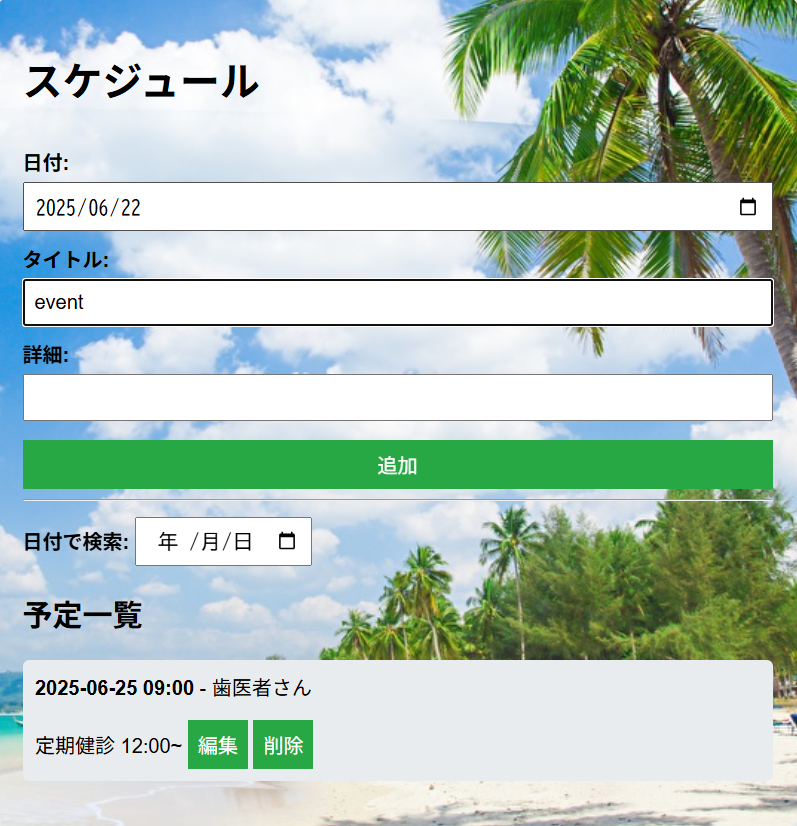
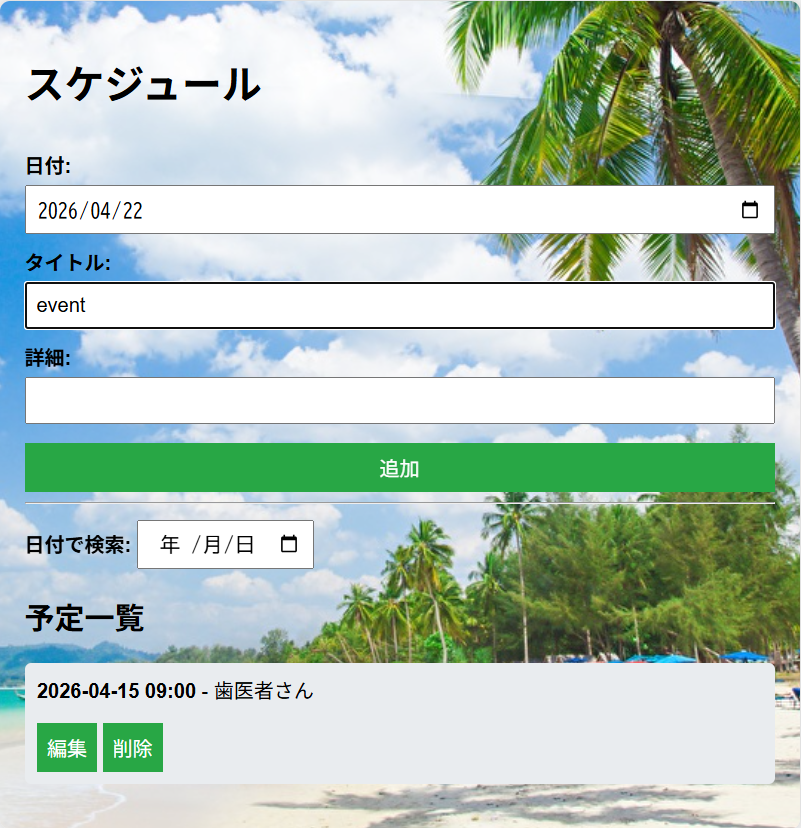
Initial commit

diff --git a/src/main/resources/static/Script.js b/src/main/resources/static/Script.js
@@ -5,41 +5,45 @@ const cancelEditBtn = document.getElementById('cancelEditBtn');
 
 // 予定を取得して表示する関数
 function fetchAndRenderSchedules(url) {
-  fetch(url)
+  fetch(url) // APIにGETリクエストを送信して予定を取得
     .then(res => res.json())
     .then(data => {
-      scheduleList.innerHTML = '';
+      scheduleList.innerHTML = ''; // 予定リストをクリア
       if (data.length === 0) {
-        scheduleList.innerHTML = '<li>予定がありません</li>';
+        scheduleList.innerHTML = '<li>予定がありません</li>'; // 予定がない場合の表示
         return;
       }
 
+      // 予定をリストに追加
       data.forEach((s) => {
-        const date = s.startTime.split('T')[0];
+        const date = s.startTime.split('T')[0]; // YYYY-MM-DD
         const time = s.startTime.split('T')[1].slice(0, 5); // HH:mm
-        const li = document.createElement('li');
+        const li = document.createElement('li'); // <li>2024-06-01 09:00 - 会議<br>詳細情報<button>編集</button><button>削除</button></li>
+        
+        // 予定の内容と編集・削除のボタンを表示
         li.innerHTML = `<strong>${date} ${time}</strong> - ${s.title}<br>${s.description}
         <button onclick="editSchedule(${s.id})">編集</button>
-        <button onclick="deleteSchedule(${s.id})">削除</button>`;
-        scheduleList.appendChild(li);
+        <button onclick="deleteSchedule(${s.id})">削除</button>`; // 編集と削除のボタンを追加
+        scheduleList.appendChild(li); // <ul id="scheduleList"><li>予定がありません</li></ul>
       });
     });
 }
 
 // 削除処理
 function deleteSchedule(id) {
-  if (!confirm('この予定を削除しますか？')) return;
+  if (!confirm('この予定を削除しますか？')) return; // 確認ダイアログを表示
 
+  // APIにDELETEリクエストを送信して予定を削除
   fetch(`/api/schedules/${id}`, {
     method: 'DELETE'
   })
   .then(res => {
-    if (!res.ok) throw new Error('削除失敗');
-    fetchAndRenderSchedules('/api/schedules');
+    if (!res.ok) throw new Error('削除失敗'); // レスポンスがOKでない場合はエラーをスロー
+    fetchAndRenderSchedules('/api/schedules'); // 削除後に予定を再取得して表示を更新
   })
   .catch(err => {
-    console.error('削除エラー:', err);
-    alert('削除に失敗しました。');
+    console.error('削除エラー:', err); // エラーが発生した場合はコンソールにエラーを表示
+    alert('削除に失敗しました。'); // ユーザーに削除失敗のメッセージを表示
   });
 }
 
@@ -48,17 +52,17 @@ let editingId = null;
 
 // 編集処理
 function editSchedule(id) { 
-  fetch(`/api/schedules/${id}`)
+  fetch(`/api/schedules/${id}`) // APIにGETリクエストを送信して予定の詳細を取得
     .then(res => {
-      if (!res.ok) throw new Error('予定取得失敗');
-      return res.json();
+      if (!res.ok) throw new Error('予定取得失敗'); // レスポンスがOKでない場合はエラーをスロー
+      return res.json(); // レスポンスをJSONとして解析
     })
-    .then(data => {
-      const date = data.startTime.split('T')[0];
-      document.getElementById('date').value = date;
-      document.getElementById('title').value = data.title;
-      document.getElementById('description').value = data.description;
-      editingId = id;
+    .then(data => { // 取得した予定のデータをフォームにセット
+      const date = data.startTime.split('T')[0]; // 予定の開始日時から日付部分を抽出（YYYY-MM-DD）
+      document.getElementById('date').value = date; // フォームの日付入力に取得した日付をセット
+      document.getElementById('title').value = data.title; // フォームのタイトル入力に取得したタイトルをセット
+      document.getElementById('description').value = data.description; // フォームの説明入力に取得した説明をセット
+      editingId = id; // 編集対象のIDを保存
 
       // ボタンのラベルを「更新」に変更
       scheduleForm.querySelector('button[type="submit"]').textContent = '更新';
@@ -72,9 +76,9 @@ function editSchedule(id) {
 
 // 編集キャンセル処理
 cancelEditBtn.addEventListener('click', () => {
-  editingId = null;
-  scheduleForm.reset();
-  scheduleForm.querySelector('button[type="submit"]').textContent = '追加';
+  editingId = null; // 編集対象のIDをリセット
+  scheduleForm.reset(); // フォームをリセット
+  scheduleForm.querySelector('button[type="submit"]').textContent = '追加'; // ボタンのラベルを「追加」に戻す
   cancelEditBtn.style.display = 'none'; // ボタン非表示
 });
 
@@ -85,18 +89,19 @@ window.addEventListener('DOMContentLoaded', () => {
 
 // 登録処理
 scheduleForm.addEventListener('submit', function (e) {
-  e.preventDefault();
+  e.preventDefault(); // フォームのデフォルトの送信を防止
 
-  const date = document.getElementById('date').value;
-  const title = document.getElementById('title').value;
-  const description = document.getElementById('description').value;
+  const date = document.getElementById('date').value; // フォームから日付を取得
+  const title = document.getElementById('title').value; // フォームからタイトルを取得
+  const description = document.getElementById('description').value; // フォームから説明を取得
 
+  // APIに送信するデータを作成
   const scheduleData = {
     title,
     description,
     startTime: date + 'T09:00:00',
     endTime: date + 'T10:00:00'
-  };
+  }; // 予定の開始時間と終了時間を固定で設定（例: 09:00 - 10:00）
 
   if (editingId) {
     // 編集モード
@@ -104,14 +109,14 @@ scheduleForm.addEventListener('submit', function (e) {
       method: 'PUT',
       headers: { 'Content-Type': 'application/json' },
       body: JSON.stringify(scheduleData)
-    })
+    }) // APIにPUTリクエストを送信して予定を更新
     .then(res => {
       if (!res.ok) throw new Error('更新失敗');
       alert('予定を更新しました！');
       editingId = null;
       scheduleForm.querySelector('button[type="submit"]').textContent = '追加'; // 元に戻す
       scheduleForm.reset();
-      fetchAndRenderSchedules('/api/schedules');
+      fetchAndRenderSchedules('/api/schedules'); // 更新後に予定を再取得して表示を更新
     })
     .catch(err => {
       console.error('更新失敗:', err);
@@ -142,7 +147,7 @@ scheduleForm.addEventListener('submit', function (e) {
 
 // 検索処理
 searchDate.addEventListener('change', () => {
-  const date = searchDate.value;
+  const date = searchDate.value; // 検索用の日付を取得
   if (date) {
     fetchAndRenderSchedules(`/api/schedules/search?date=${date}`);
   } else {

diff --git a/src/main/java/com/example/demo/ScheduleController.java b/src/main/java/com/example/demo/ScheduleController.java
@@ -10,62 +10,65 @@ import org.springframework.format.annotation.DateTimeFormat;
 import java.util.List;
 import java.util.Optional;
 
+// スケジュール管理のRESTコントローラー
 @RestController
 @RequestMapping("/api/schedules")
 public class ScheduleController {
 
-    private final ScheduleRepository repository;
+    private final ScheduleRepository repository; // スケジュールのリポジトリ
 
+    // コンストラクタでリポジトリを注入
     public ScheduleController(ScheduleRepository repository) {
-        this.repository = repository;
+        this.repository = repository; // スケジュールのリポジトリを初期化
     }
 
     // 全件取得
     @GetMapping
     public List<Schedule> getAll() {
-        return repository.findAll();
+        return repository.findAll(); // 全てのスケジュールを取得して返す
     }
 
     // 日付検索
     @GetMapping("/search")
     public List<Schedule> getByDate(@RequestParam("date") @DateTimeFormat(iso = DateTimeFormat.ISO.DATE) LocalDate date) {
-        LocalDateTime startOfDay = date.atStartOfDay();
-        LocalDateTime endOfDay = date.atTime(LocalTime.MAX);
-        return repository.findByStartTimeBetween(startOfDay, endOfDay);
+        LocalDateTime startOfDay = date.atStartOfDay(); // 指定された日付の開始日時を取得
+        LocalDateTime endOfDay = date.atTime(LocalTime.MAX); // 指定された日付の終了日時を取得
+        return repository.findByStartTimeBetween(startOfDay, endOfDay); // 開始日時が指定された日付の範囲内のスケジュールを取得
     }
 
     // 1件取得
     @GetMapping("/{id}")
     public Schedule getById(@PathVariable Long id) {
         return repository.findById(id)
-                .orElseThrow(() -> new RuntimeException("Schedule not found with id " + id));
+                .orElseThrow(() -> new RuntimeException("Schedule not found with id " + id)); // 存在しないIDの場合は例外をスロー
     }
 
     // 登録
     @PostMapping
     public Schedule create(@RequestBody Schedule schedule) {
-        return repository.save(schedule);
+        return repository.save(schedule); // IDは自動生成されるため、リクエストボディには含めない
     }
 
     // 更新
     @PutMapping("/{id}")
     public Schedule update(@PathVariable Long id, @RequestBody Schedule schedule) {
-        Optional<Schedule> existing = repository.findById(id);
+        Optional<Schedule> existing = repository.findById(id); // 更新対象のスケジュールが存在するか確認
+        // 存在する場合は更新、存在しない場合は例外をスロー
         if (existing.isPresent()) {
             Schedule s = existing.get();
-            s.setTitle(schedule.getTitle());
-            s.setDescription(schedule.getDescription());
-            s.setStartTime(schedule.getStartTime());
-            s.setEndTime(schedule.getEndTime());
-            return repository.save(s);
+            s.setTitle(schedule.getTitle()); // タイトルを更新
+            s.setDescription(schedule.getDescription()); // 説明を更新
+            s.setStartTime(schedule.getStartTime()); // 開始日時を更新
+            s.setEndTime(schedule.getEndTime()); // 終了日時を更新
+            return repository.save(s); // 更新後のスケジュールを保存して返す
         } else {
-            throw new RuntimeException("Schedule not found with id " + id);
+            throw new RuntimeException("Schedule not found with id " + id); // 存在しないIDの場合は例外をスロー
         }
     }
 
     // 削除
     @DeleteMapping("/{id}")
     public void delete(@PathVariable Long id) {
-        repository.deleteById(id);
+        repository.deleteById(id); // IDに対応するスケジュールを削除
     }
 }

diff --git a/src/main/java/com/example/demo/ScheduleService.java b/src/main/java/com/example/demo/ScheduleService.java
@@ -8,19 +8,21 @@ import java.time.LocalDateTime;
 import java.time.LocalTime;
 import java.util.List;
 
+// スケジュール管理のビジネスロジックを担当するサービスクラス
 @Service
 public class ScheduleService {
 
     @Autowired
-    private ScheduleRepository scheduleRepository;
+    private ScheduleRepository scheduleRepository; // スケジュールのリポジトリを自動注入
 
     public List<Schedule> getSchedulesByDate(LocalDate date) {
-        LocalDateTime start = date.atStartOfDay();
-        LocalDateTime end = date.atTime(LocalTime.MAX);
-        return scheduleRepository.findByStartTimeBetween(start, end);
+        LocalDateTime start = date.atStartOfDay(); // 指定された日付の開始日時を取得
+        LocalDateTime end = date.atTime(LocalTime.MAX); // 指定された日付の終了日時を取得
+        return scheduleRepository.findByStartTimeBetween(start, end); // 開始日時が指定された日付の範囲内のスケジュールを取得
     }
 
+    // その他のビジネスロジックをここに追加できます（例：スケジュールの登録、更新、削除など）
     public Schedule save(Schedule schedule) {
-        return scheduleRepository.save(schedule);
+        return scheduleRepository.save(schedule); // スケジュールを保存して返す
     }
 }

diff --git a/src/main/java/com/example/demo/Schedule.java b/src/main/java/com/example/demo/Schedule.java
@@ -3,17 +3,18 @@ package com.example.demo;
 import jakarta.persistence.*;
 import java.time.LocalDateTime;
 
+// 予定を表すエンティティクラス
 @Entity
 public class Schedule {
-
+    // IDは自動生成されるように設定
     @Id
     @GeneratedValue(strategy = GenerationType.IDENTITY)
     private Long id;
 
-    private String title;
-    private String description;
-    private LocalDateTime startTime;
-    private LocalDateTime endTime;
+    private String title; // 予定のタイトル
+    private String description; // 予定の説明
+    private LocalDateTime startTime; // 予定の開始日時
+    private LocalDateTime endTime; // 予定の終了日時
 
     // ゲッターとセッター
     public Long getId() { return id; }

diff --git a/src/main/java/com/example/demo/ScheduleRepository.java b/src/main/java/com/example/demo/ScheduleRepository.java
@@ -6,7 +6,8 @@ import org.springframework.stereotype.Repository;
 import java.time.LocalDateTime;
 import java.util.List;
 
+// Scheduleエンティティのリポジトリインターフェース
 @Repository
 public interface ScheduleRepository extends JpaRepository<Schedule, Long> {
-    List<Schedule> findByStartTimeBetween(LocalDateTime start, LocalDateTime end);
+    List<Schedule> findByStartTimeBetween(LocalDateTime start, LocalDateTime end); // 開始日時が指定された範囲内のスケジュールを取得するメソッド
 }

diff --git a/README.md b/README.md
@@ -29,7 +29,7 @@ JavaScriptとSpring Bootで作成したシンプルなスケジュール管理We
 - Git(バージョン管理)
 
 ## 🛠 動作環境
-- JDK 24(Java 11+)
+- JDK 25(Java 17+)
 - Spring Boot
 - Maven
 
